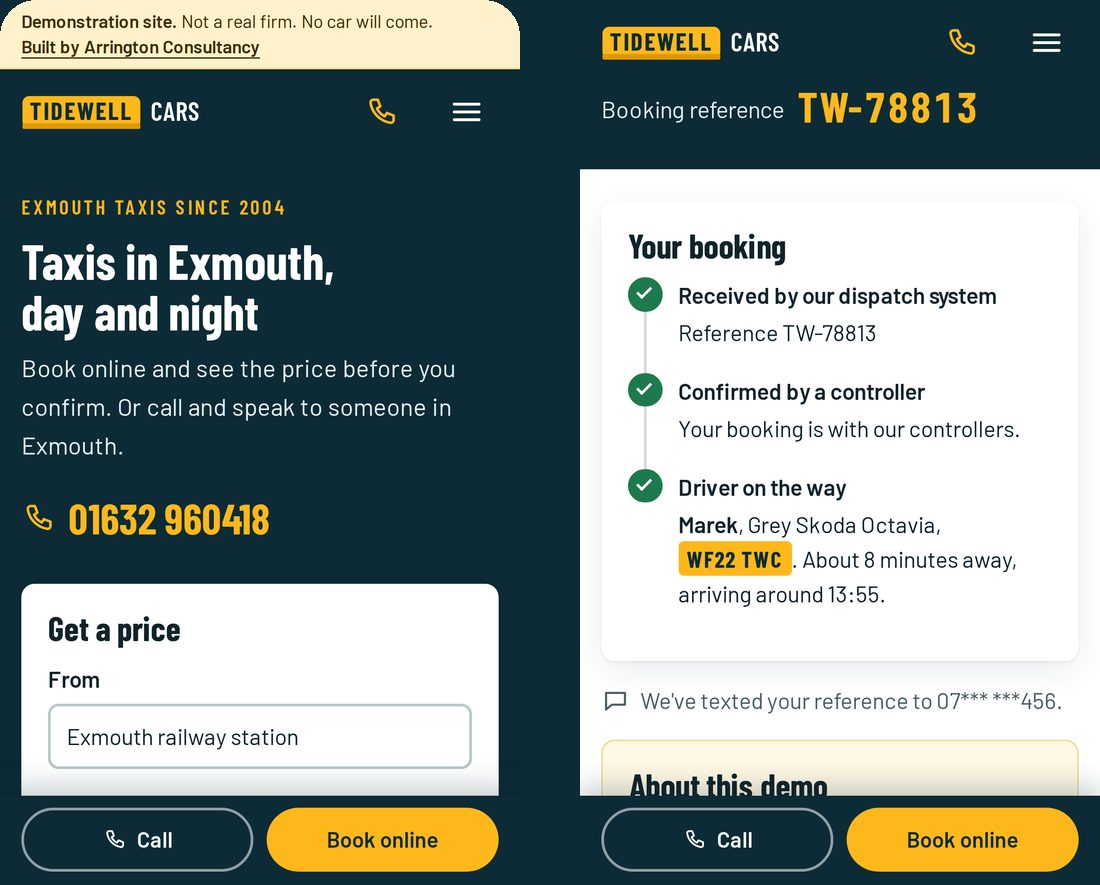
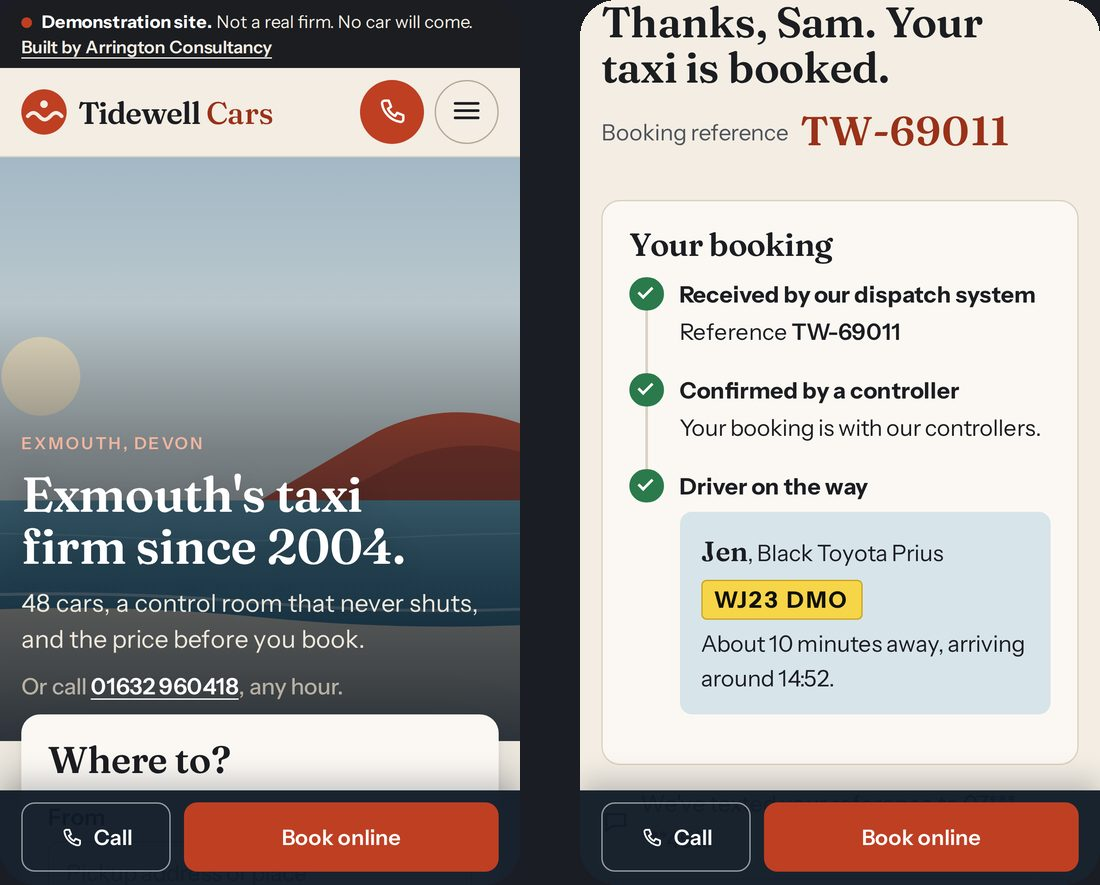
Taxi demo: keep price table headings on one line; new screenshot for the £999 page
The redesign's phone layout split '6-seater' across two lines. The sales
page screenshot is retaken from the redesigned demo (home and a booking
with the driver allocated).

Claude-Session: https://claude.ai/code/session_01MZnTcjcxD9XPzj7NL5csXa

diff --git a/taxi-demo/public/site.css b/taxi-demo/public/site.css
@@ -300,7 +300,7 @@ input:not([type=radio]):focus, select:focus, textarea:focus { border-color: var(
 table.prices { width: 100%; border-collapse: collapse; font-variant-numeric: tabular-nums; }
 .prices caption { text-align: left; color: var(--ink-2); padding-bottom: 0.9rem; }
 .prices th, .prices td { padding: 0.9rem 0.6rem; border-bottom: 1px solid var(--line); text-align: right; vertical-align: baseline; }
-.prices thead th { font-weight: 600; font-size: 0.78rem; letter-spacing: 0.1em; text-transform: uppercase; color: var(--ink-2); border-bottom: 2px solid var(--ink); }
+.prices thead th { font-weight: 600; font-size: 0.78rem; letter-spacing: 0.1em; text-transform: uppercase; color: var(--ink-2); border-bottom: 2px solid var(--ink); white-space: nowrap; }
 .prices th[scope="row"], .prices thead th:first-child { text-align: left; }
 .prices th[scope="row"] { font-family: var(--display); font-weight: 500; font-size: 1.15rem; }
 .prices th[scope="row"] span { display: block; font-family: var(--body); font-weight: 400; font-size: 0.85rem; color: var(--ink-2); }
